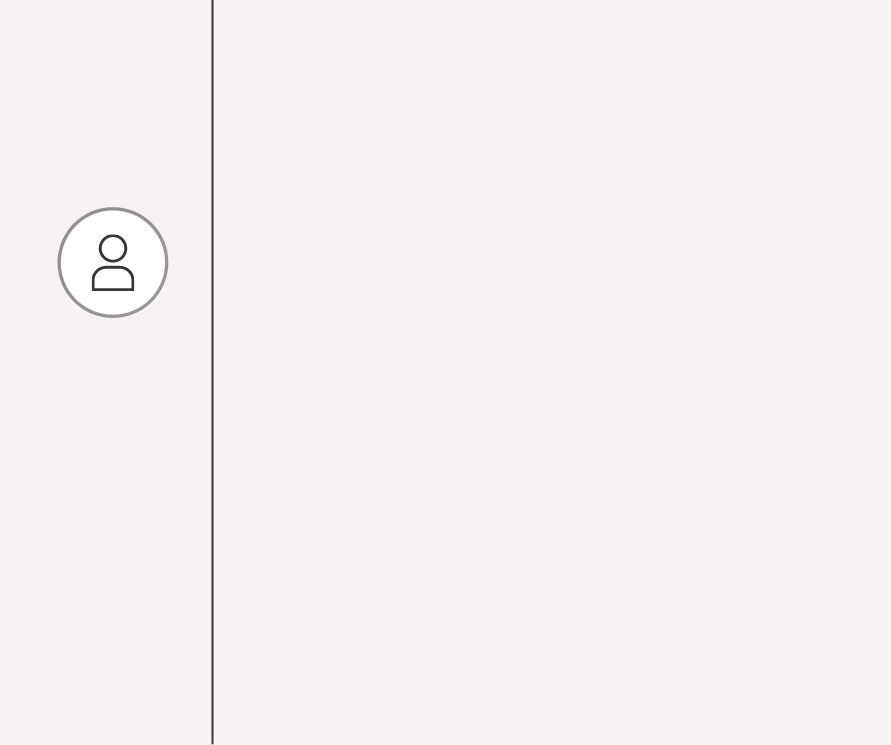
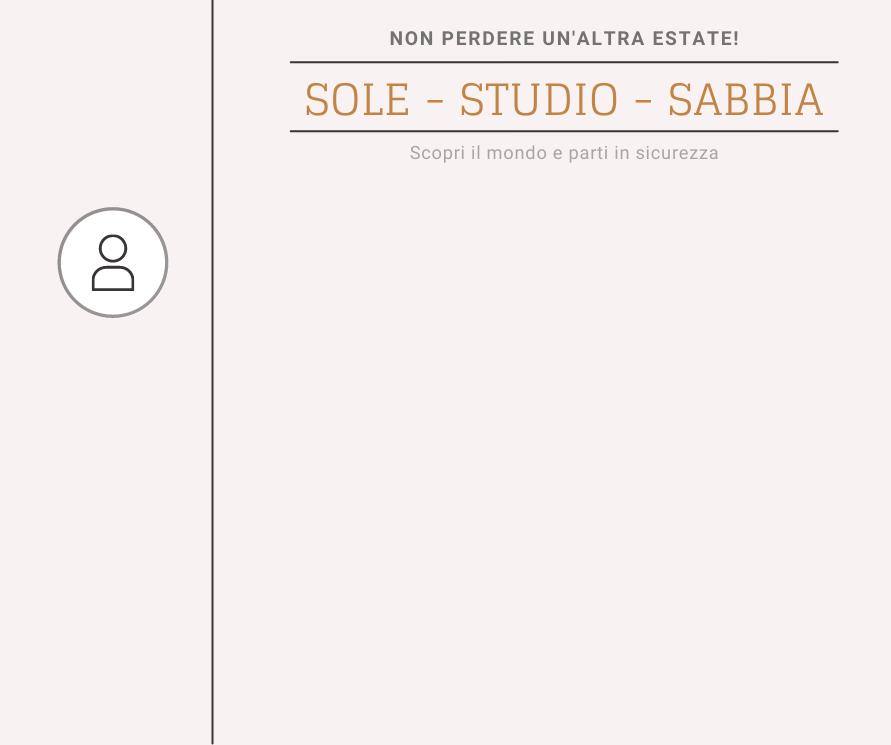
Update

Changed region(s): [[0.3333, 0.0309, 0.9394, 0.2161]]

diff --git a/src/sample/HomeController.java b/src/sample/HomeController.java
@@ -15,6 +15,7 @@ import javafx.scene.text.Text;
 import javafx.stage.Stage;
 import javafx.util.Callback;
 
+import javax.swing.text.html.ImageView;
 import java.sql.ResultSet;
 import java.text.SimpleDateFormat;
 import java.util.Date;
@@ -124,10 +125,10 @@ public class HomeController {
 
     public void setTableVisible(ActionEvent mouseEvent) {
         // mostra il catalogo delle vacanze
-        TabellaVacanze.setVisible(true);
         Scroll.setVisible(false);
         ChoiceBoxCatalogo.setVisible(true);
         titolo.setText("CATALOGO VACANZE");
+        titolo.setVisible(true);
     }
 
     public void transferMessage(String message1, String message2) {
@@ -339,22 +340,22 @@ public class HomeController {
                     ResultSet rs = databaseOperation.Vacation_return(query, selectedItem);
                     // put results inside of tableview
                     while(rs.next()){
-                        Vacanze cm = new Vacanze();
-                        cm.Durata.set(rs.getInt("durata"));
+                        Vacanze vacanze = new Vacanze();
+                        vacanze.Durata.set(rs.getInt("durata"));
                         System.out.println("Durata: " + rs.getInt("durata"));
-                        cm.Lingua.set(rs.getString("lingua"));
+                        vacanze.Lingua.set(rs.getString("lingua"));
                         System.out.println("Lingua: " + rs.getString("lingua"));
                         System.out.println("Città: " + rs.getString("città"));
-                        cm.Città.set(rs.getString("città"));
+                        vacanze.Città.set(rs.getString("città"));
                         // change String date format into dd-MM-yyyy
                         SimpleDateFormat input = new SimpleDateFormat("yyyy-MM-dd");
                         SimpleDateFormat output = new SimpleDateFormat("dd-MM-yyyy");
                         String date = rs.getString("data_partenza");
                         Date dateValue = input.parse(date);
-                        cm.DataPartenza.set(output.format(dateValue));
+                        vacanze.DataPartenza.set(output.format(dateValue));
                         System.out.println("Durata: " + rs.getString("data_partenza"));
                         // add cm inside of data
-                        data.add(cm);
+                        data.add(vacanze);
                     }
                     // add data inside of tableview
                     TabellaVacanze.setVisible(true);
@@ -372,6 +373,8 @@ public class HomeController {
     //  ChoiceBox TableView initialization
     @FXML
     public void Initialize(MouseEvent mouseEvent) {
+        titolo.setVisible(true);
+        ChoiceBoxCatalogo.setVisible(true);
         assert TabellaVacanze != null : "fx:id=\"TabellaVacanze\" was not injected: check your FXML file 'Home.fxml'.";
         // setCellValueFactory for each column
         colCittà.setCellValueFactory(new PropertyValueFactory<Vacanze,String>("Città"));
@@ -406,9 +409,13 @@ public class HomeController {
                                     btn.setOnAction(event -> {
                                         // get data from tableview row
                                         Vacanze vacanze = getTableView().getItems().get(getIndex());
-                                        //String città = Vacanze.getCittà();
-                                        //System.out.println("Città: " + vacanze.getCittà() + " Data di partenza: " + vacanze.getDataPartenza() + " Lingua: " + vacanze.getLingua() + " Durata " + vacanze.getDurata());
-                                        //showBooking(città);
+                                        //TableRow row = getTableRow();
+                                        String Città = vacanze.getCittà();
+                                        String DataPartenza = vacanze.getDataPartenza();
+                                        String Lingua = vacanze.getLingua();
+                                        Integer Durata = vacanze.getDurata();
+                                        System.out.println("Città: " + vacanze.getCittà());
+                                        showBooking(Città, DataPartenza, Lingua, Durata);
                                     });
                                     setGraphic(btn);
                                     setText(null);
@@ -433,6 +440,11 @@ public class HomeController {
                 e.printStackTrace();
             }
         });
+    }
+
+    private void showBooking(String città, String dataPartenza, String lingua, Integer durata) {
+        TabellaVacanze.setVisible(false);
+        ChoiceBoxCatalogo.setVisible(false);
     }
 
 

diff --git a/src/sample/databaseOperation.java b/src/sample/databaseOperation.java
@@ -41,7 +41,7 @@ public class databaseOperation {
             connection = DriverManager.getConnection(dbURL2, usermy, passmy);
             PreparedStatement statement = connection.prepareStatement(query);
             ResultSet result = statement.executeQuery();
-            result.next();
+            //result.next();
             return result;
         } catch (Exception ex) {
             ex.printStackTrace();
